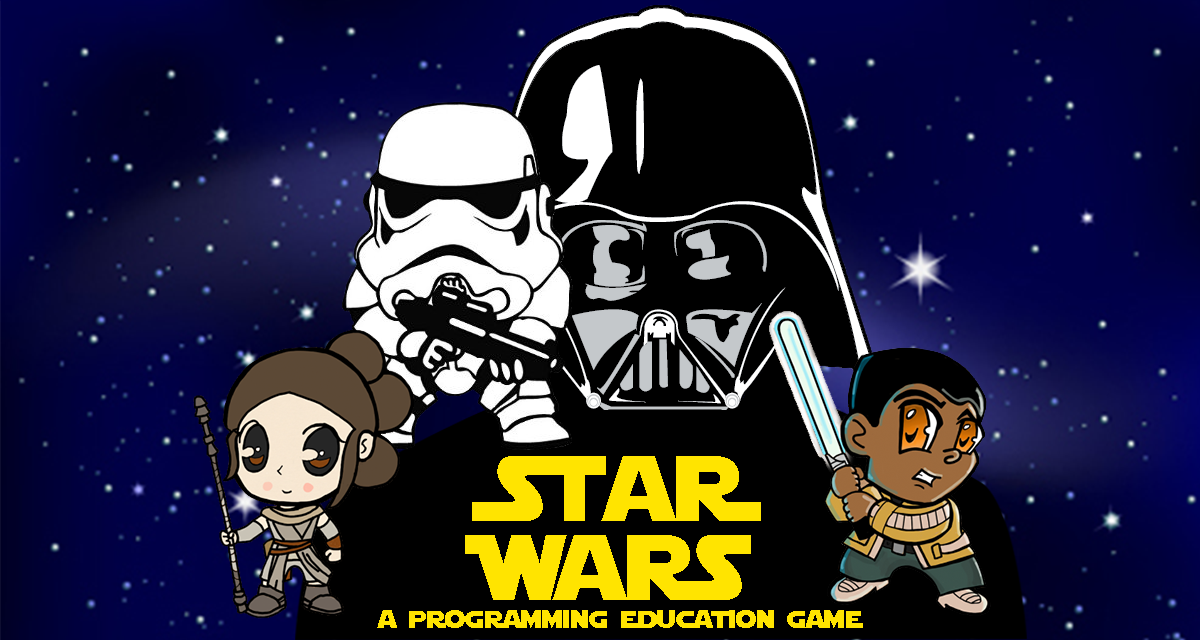
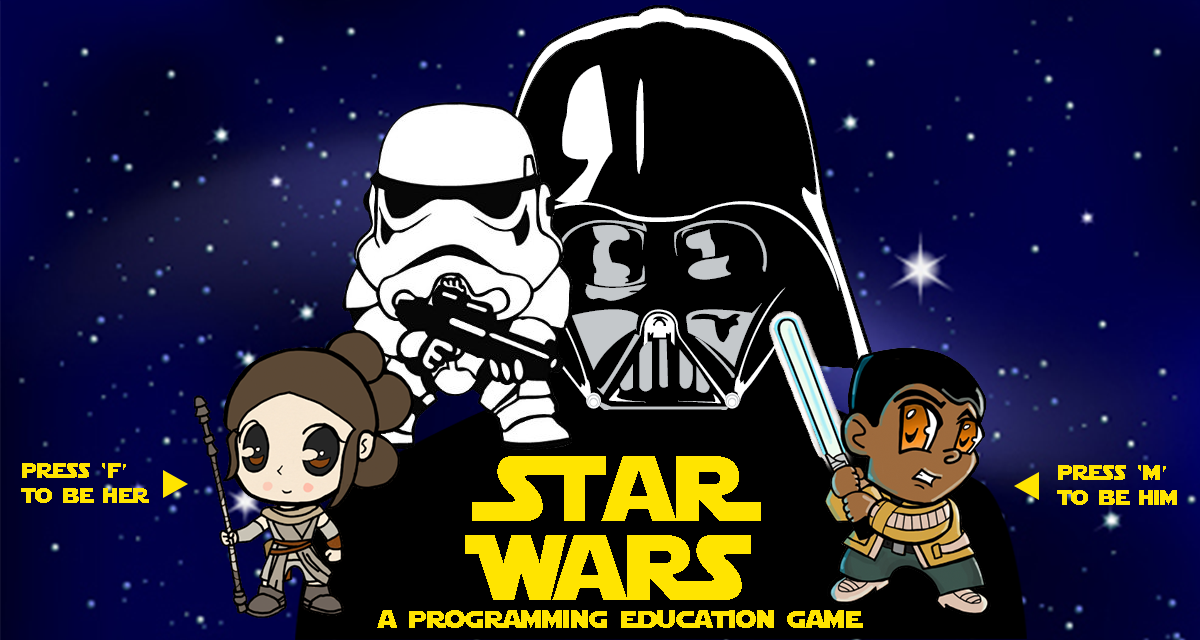
changed wallpaper and refractored randAppleGen to blueprintGen in the code

Changed region(s): [[0.8325, 0.7188, 0.9867, 0.8125], [0.0, 0.7188, 0.1542, 0.8125]]

diff --git a/starwarsV1.1.py b/starwarsV1.1.py
@@ -44,7 +44,7 @@ status_bar = 40
 display_width = map_width +400
 display_height = map_height + status_bar
 
-AppleThickness = 30
+BlueprintThickness = 30
 block_size = 10
 FPS = 30
 gameDisplay = pygame.display.set_mode((display_width,display_height))
@@ -72,7 +72,7 @@ lukeMoveRight = [lukeRightStationary, lukeRightWalk, lukeRightStationary]
 lukeMoveLeft = [lukeLeftStationary, lukeLeftWalk, lukeLeftStationary]
 lukeMove = [lukeMoveUp, lukeMoveDown, lukeMoveRight, lukeMoveLeft]
 
-appleimg = pygame.image.load('pictures/apple.png')
+blueprint_img = pygame.image.load('pictures/apple.png')
 
 # for run button
 btnimg = pygame.image.load('pictures/runbtn.png').convert_alpha()
@@ -155,10 +155,12 @@ def status(score,set_time,elapse_time):
     text2 = smallfont.render("Time left", True, black)
     gameDisplay.blit(text2,[3*map_width/4,map_height])
     
-def randAppleGen():
-    randAppleX = round(random.randrange(0, map_width - AppleThickness))#/10.0)*10.0
-    randAppleY = round(random.randrange(0, map_height - AppleThickness))#/10.0)*10.0
-    return randAppleX, randAppleY
+def randBlueprintGen():
+##    randBlueprintX = round(random.randrange(0, map_width - AppleThickness))#/10.0)*10.0
+##    randBlueprintY = round(random.randrange(0, map_height - AppleThickness))#/10.0)*10.0
+    randBlueprintX = 180
+    randBlueprintY = 180
+    return randBlueprintX, randBlueprintY
      
 def game_intro():
     pygame.mixer.music.load("sounds/intro - star wars main theme.ogg")
@@ -172,7 +174,7 @@ def game_intro():
                 pygame.quit()
                 quit()
             if event.type == pygame.KEYDOWN:
-                if event.key == pygame.K_c:
+                if event.key == pygame.K_m:
                     intro=False
                 if event.key == pygame.K_q:
                     pygame.quit()
@@ -192,7 +194,8 @@ def game_intro():
         clock.tick(5)
 
 
-def rebel_move(direction, playerX, playerY, xChange, yChange, rebelScore, time_limit, seconds, xlocation, randomHeight, barrier_width, randAppleX, randAppleY):
+def rebel_move(direction, playerX, playerY, xChange, yChange, rebelScore, time_limit, seconds, xlocation, randomHeight, barrier_width,
+               randBlueprintX, randBlueprintY):
 
     image = None
     for img in lukeMove[direction]:
@@ -200,7 +203,7 @@ def rebel_move(direction, playerX, playerY, xChange, yChange, rebelScore, time_l
         playerX += xChange
         playerY += yChange
 
-        for i in range(5):
+        for i in range(2):
             gameDisplay.fill(white)
             gameDisplay.blit(game_map, (0,0))
             gameDisplay.blit(text_editor, (map_width,0))
@@ -208,7 +211,7 @@ def rebel_move(direction, playerX, playerY, xChange, yChange, rebelScore, time_l
             pygame.draw.line(gameDisplay,black,(0,map_height),(map_width,map_height), 2)#draw boundary for status bar
             status(rebelScore, time_limit,seconds)
             barrier(xlocation, randomHeight, barrier_width)
-            gameDisplay.blit(appleimg, (randAppleX, randAppleY))
+            gameDisplay.blit(blueprint_img, (randBlueprintX, randBlueprintY))
             gameDisplay.blit(btnimg, btn_rect)
             for i in range(elemNumber):
                 txtbx[i].draw(gameDisplay)
@@ -217,6 +220,7 @@ def rebel_move(direction, playerX, playerY, xChange, yChange, rebelScore, time_l
             image = img
 
             pygame.display.update()
+            clock.tick(60)
 
     return playerX, playerY, image
     
@@ -245,7 +249,7 @@ def gameLoop():
     lead_x_change = 0
     lead_y_change = 0
     rebelScore = 0
-    randAppleX, randAppleY = randAppleGen()
+    randBlueprintX, randBlueprintY = randBlueprintGen()
     step_count = 0
     pause_duration = 0
 
@@ -340,7 +344,7 @@ def gameLoop():
         gameDisplay.blit(text_editor, (map_width,0))
         pygame.draw.line(gameDisplay,black,(map_width,display_height),(map_width,0), 2) #draw boundary for user to type code
         pygame.draw.line(gameDisplay,black,(0,map_height),(map_width,map_height), 2) #draw boundary for status bar
-        gameDisplay.blit(appleimg, (randAppleX, randAppleY))
+        gameDisplay.blit(blueprint_img, (randBlueprintX, randBlueprintY))
         gameDisplay.blit(player, (lead_x, lead_y))
         status(rebelScore, time_limit,seconds)
         barrier(xlocation,randomHeight, barrier_width)
@@ -359,13 +363,13 @@ def gameLoop():
                 lead_y -= block_size
         
 ######################## when apple have been collected ###########################
-        if lead_x >= randAppleX and lead_x <= randAppleX + AppleThickness or lead_x + block_size >= randAppleX and lead_x + block_size <= randAppleX + AppleThickness:
-            if lead_y >= randAppleY and lead_y <= randAppleY + AppleThickness:
-                randAppleX, randAppleY = randAppleGen()
+        if lead_x >= randBlueprintX and lead_x <= randBlueprintX + BlueprintThickness or lead_x + block_size >= randBlueprintX and lead_x + block_size <= randBlueprintX + BlueprintThickness:
+            if lead_y >= randBlueprintY and lead_y <= randBlueprintY + BlueprintThickness:
+                randBlueprintX, randBlueprintY = randBlueprintGen()
                 rebelScore+=1
                 
-            elif lead_y + block_size >= randAppleY and lead_y + block_size <= randAppleY + AppleThickness:
-                randAppleX, randAppleY = randAppleGen()
+            elif lead_y + block_size >= randBlueprintY and lead_y + block_size <= randBlueprintY + BlueprintThickness:
+                randBlueprintX, randBlueprintY = randBlueprintGen()
                 rebelScore+=1
 
         clock.tick(30)
@@ -455,13 +459,17 @@ def gameLoop():
                 lead_x_change = 0
                 lead_y_change = 0
             elif next_move == 'up':
-                lead_x, lead_y, player = rebel_move(0, lead_x, lead_y, 0, -10, rebelScore, time_limit, seconds, xlocation, randomHeight, barrier_width, randAppleX, randAppleY)
+                lead_x, lead_y, player = rebel_move(0, lead_x, lead_y, 0, -10, rebelScore, time_limit, seconds, xlocation, randomHeight,
+                                                    barrier_width, randBlueprintX, randBlueprintY)
             elif next_move == 'down':
-                lead_x, lead_y, player = rebel_move(1, lead_x, lead_y, 0, 10, rebelScore, time_limit, seconds, xlocation, randomHeight, barrier_width, randAppleX, randAppleY)
+                lead_x, lead_y, player = rebel_move(1, lead_x, lead_y, 0, 10, rebelScore, time_limit, seconds, xlocation, randomHeight,
+                                                    barrier_width, randBlueprintX, randBlueprintY)
             elif next_move == 'left':
-                lead_x, lead_y, player = rebel_move(3, lead_x, lead_y, -10, 0, rebelScore, time_limit, seconds, xlocation, randomHeight, barrier_width, randAppleX, randAppleY)
+                lead_x, lead_y, player = rebel_move(3, lead_x, lead_y, -10, 0, rebelScore, time_limit, seconds, xlocation, randomHeight,
+                                                    barrier_width, randBlueprintX, randBlueprintY)
             elif next_move == 'right':
-                lead_x, lead_y, player = rebel_move(2, lead_x, lead_y, 10, 0, rebelScore, time_limit, seconds, xlocation, randomHeight, barrier_width, randAppleX, randAppleY)
+                lead_x, lead_y, player = rebel_move(2, lead_x, lead_y, 10, 0, rebelScore, time_limit, seconds, xlocation, randomHeight,
+                                                    barrier_width, randBlueprintX, randBlueprintY)
 
         if parsing:
             if game_state == 'move_left':
